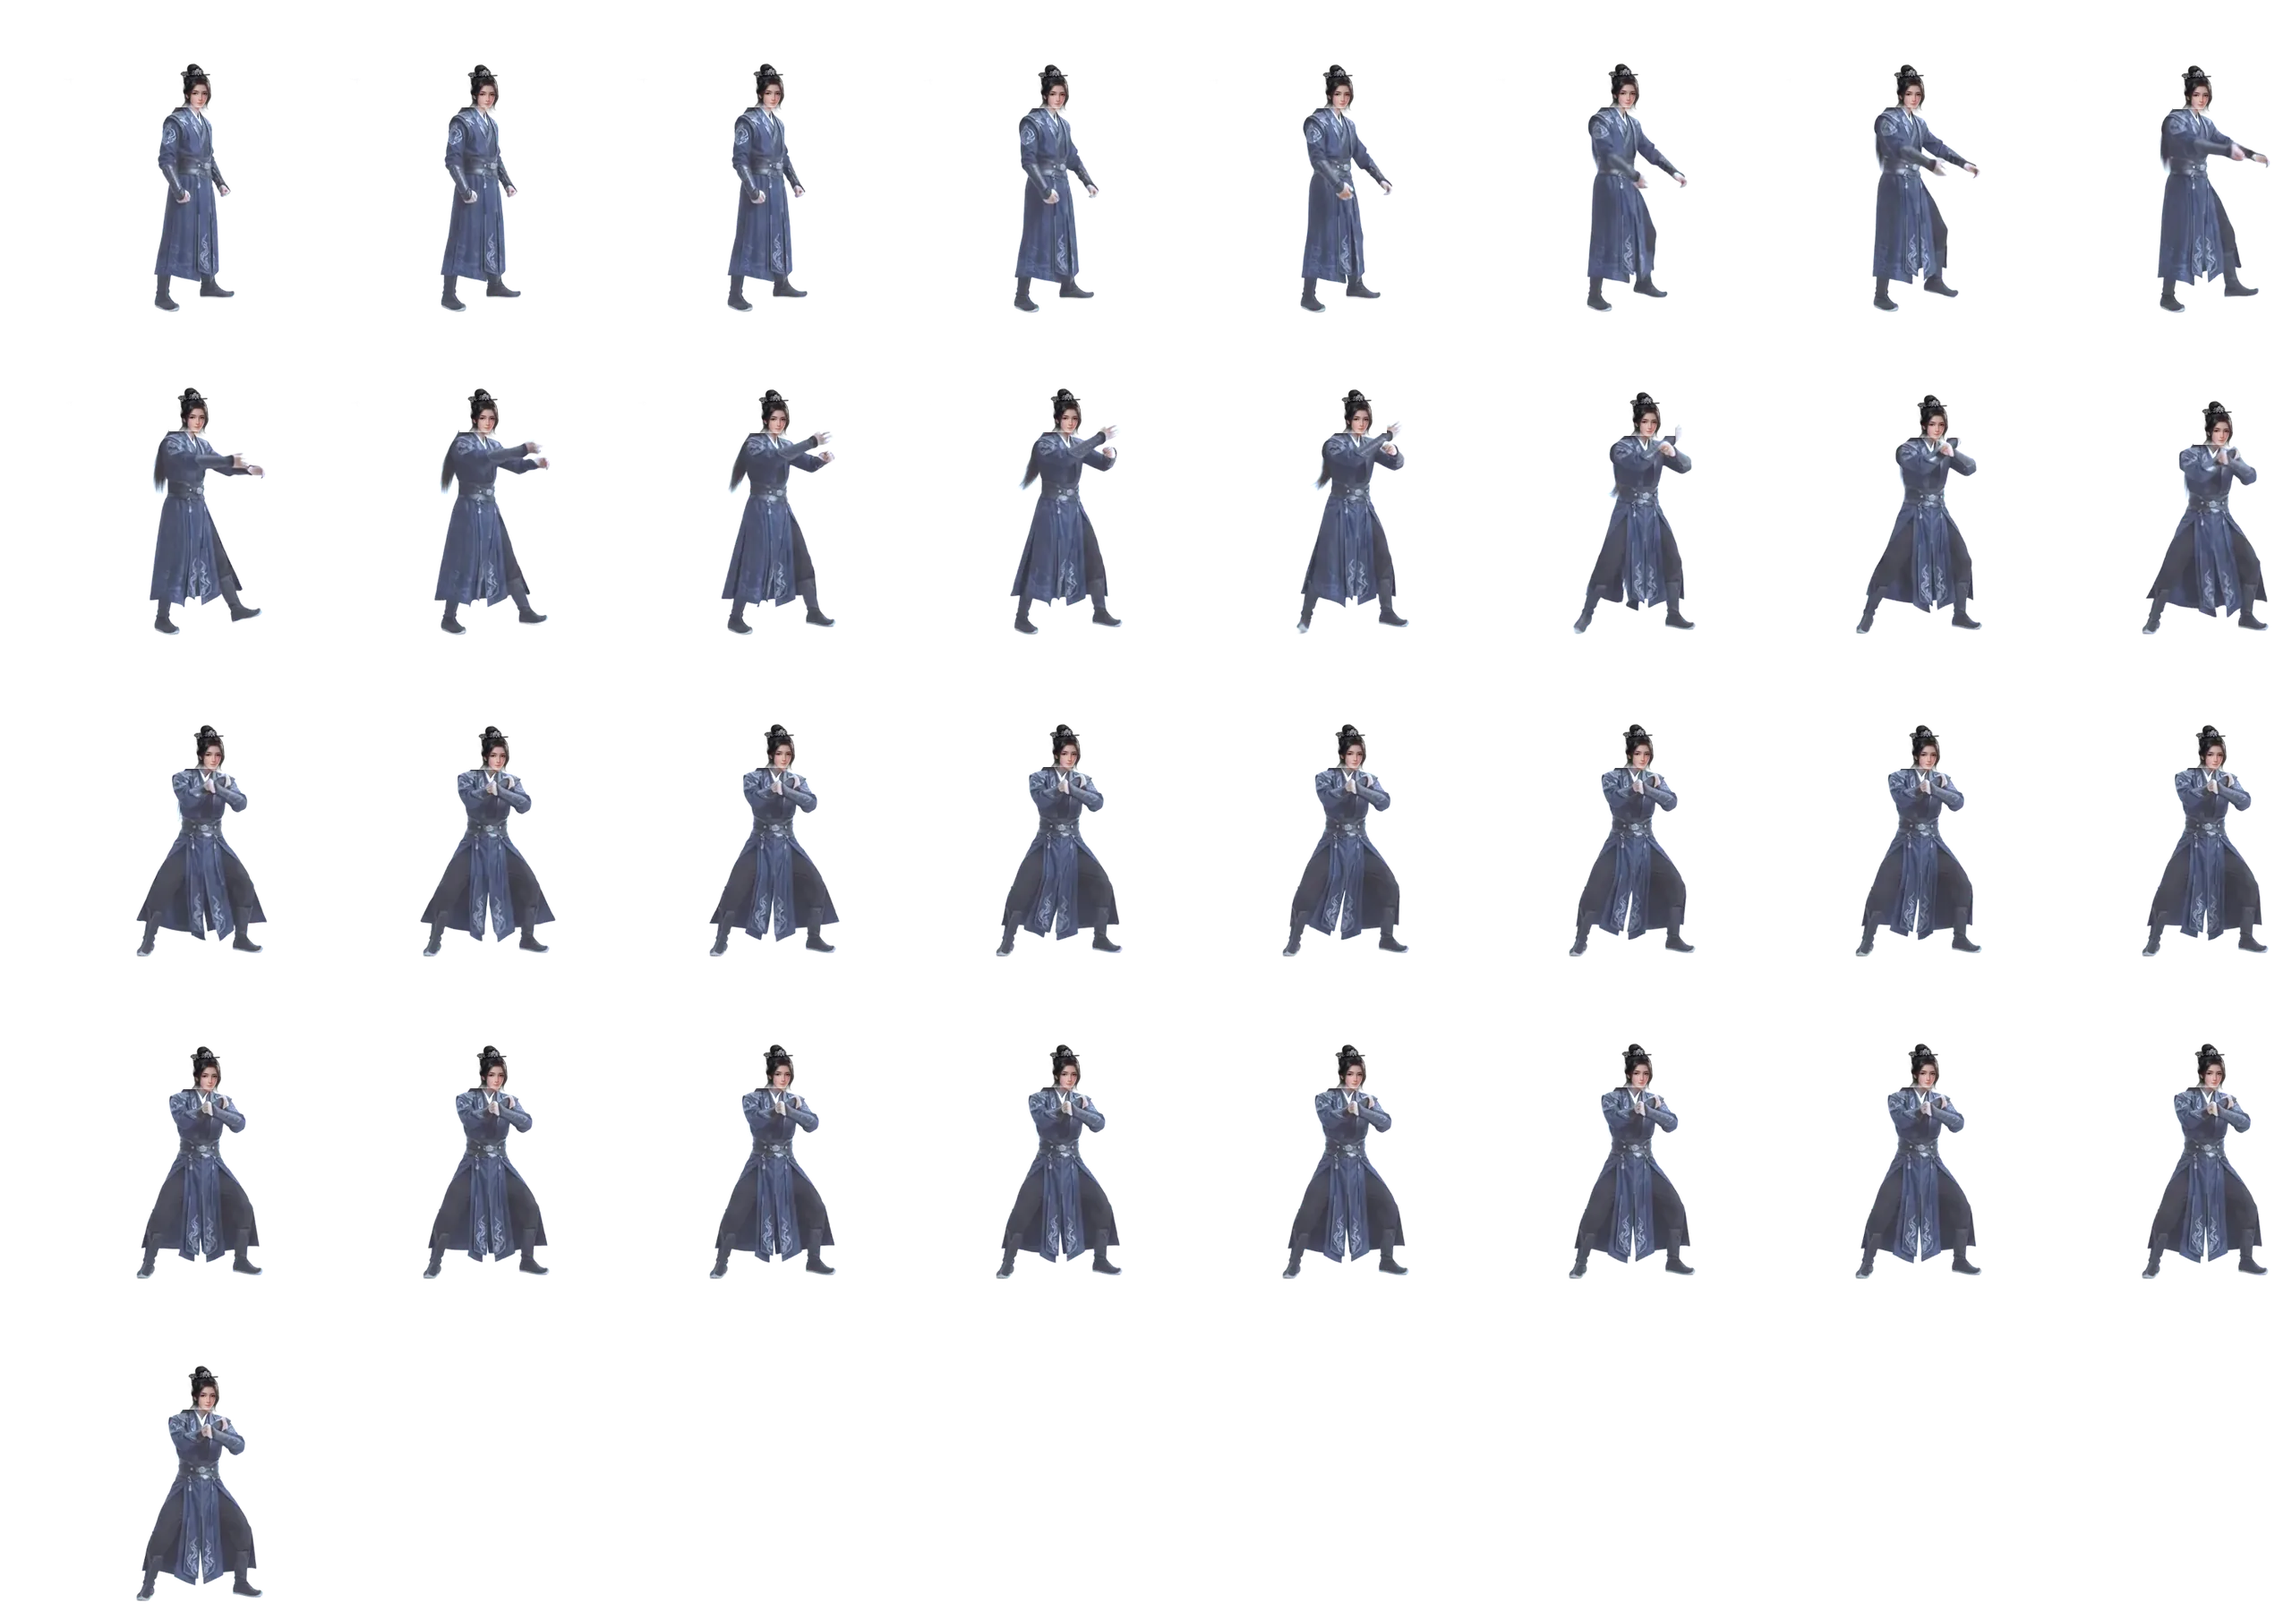
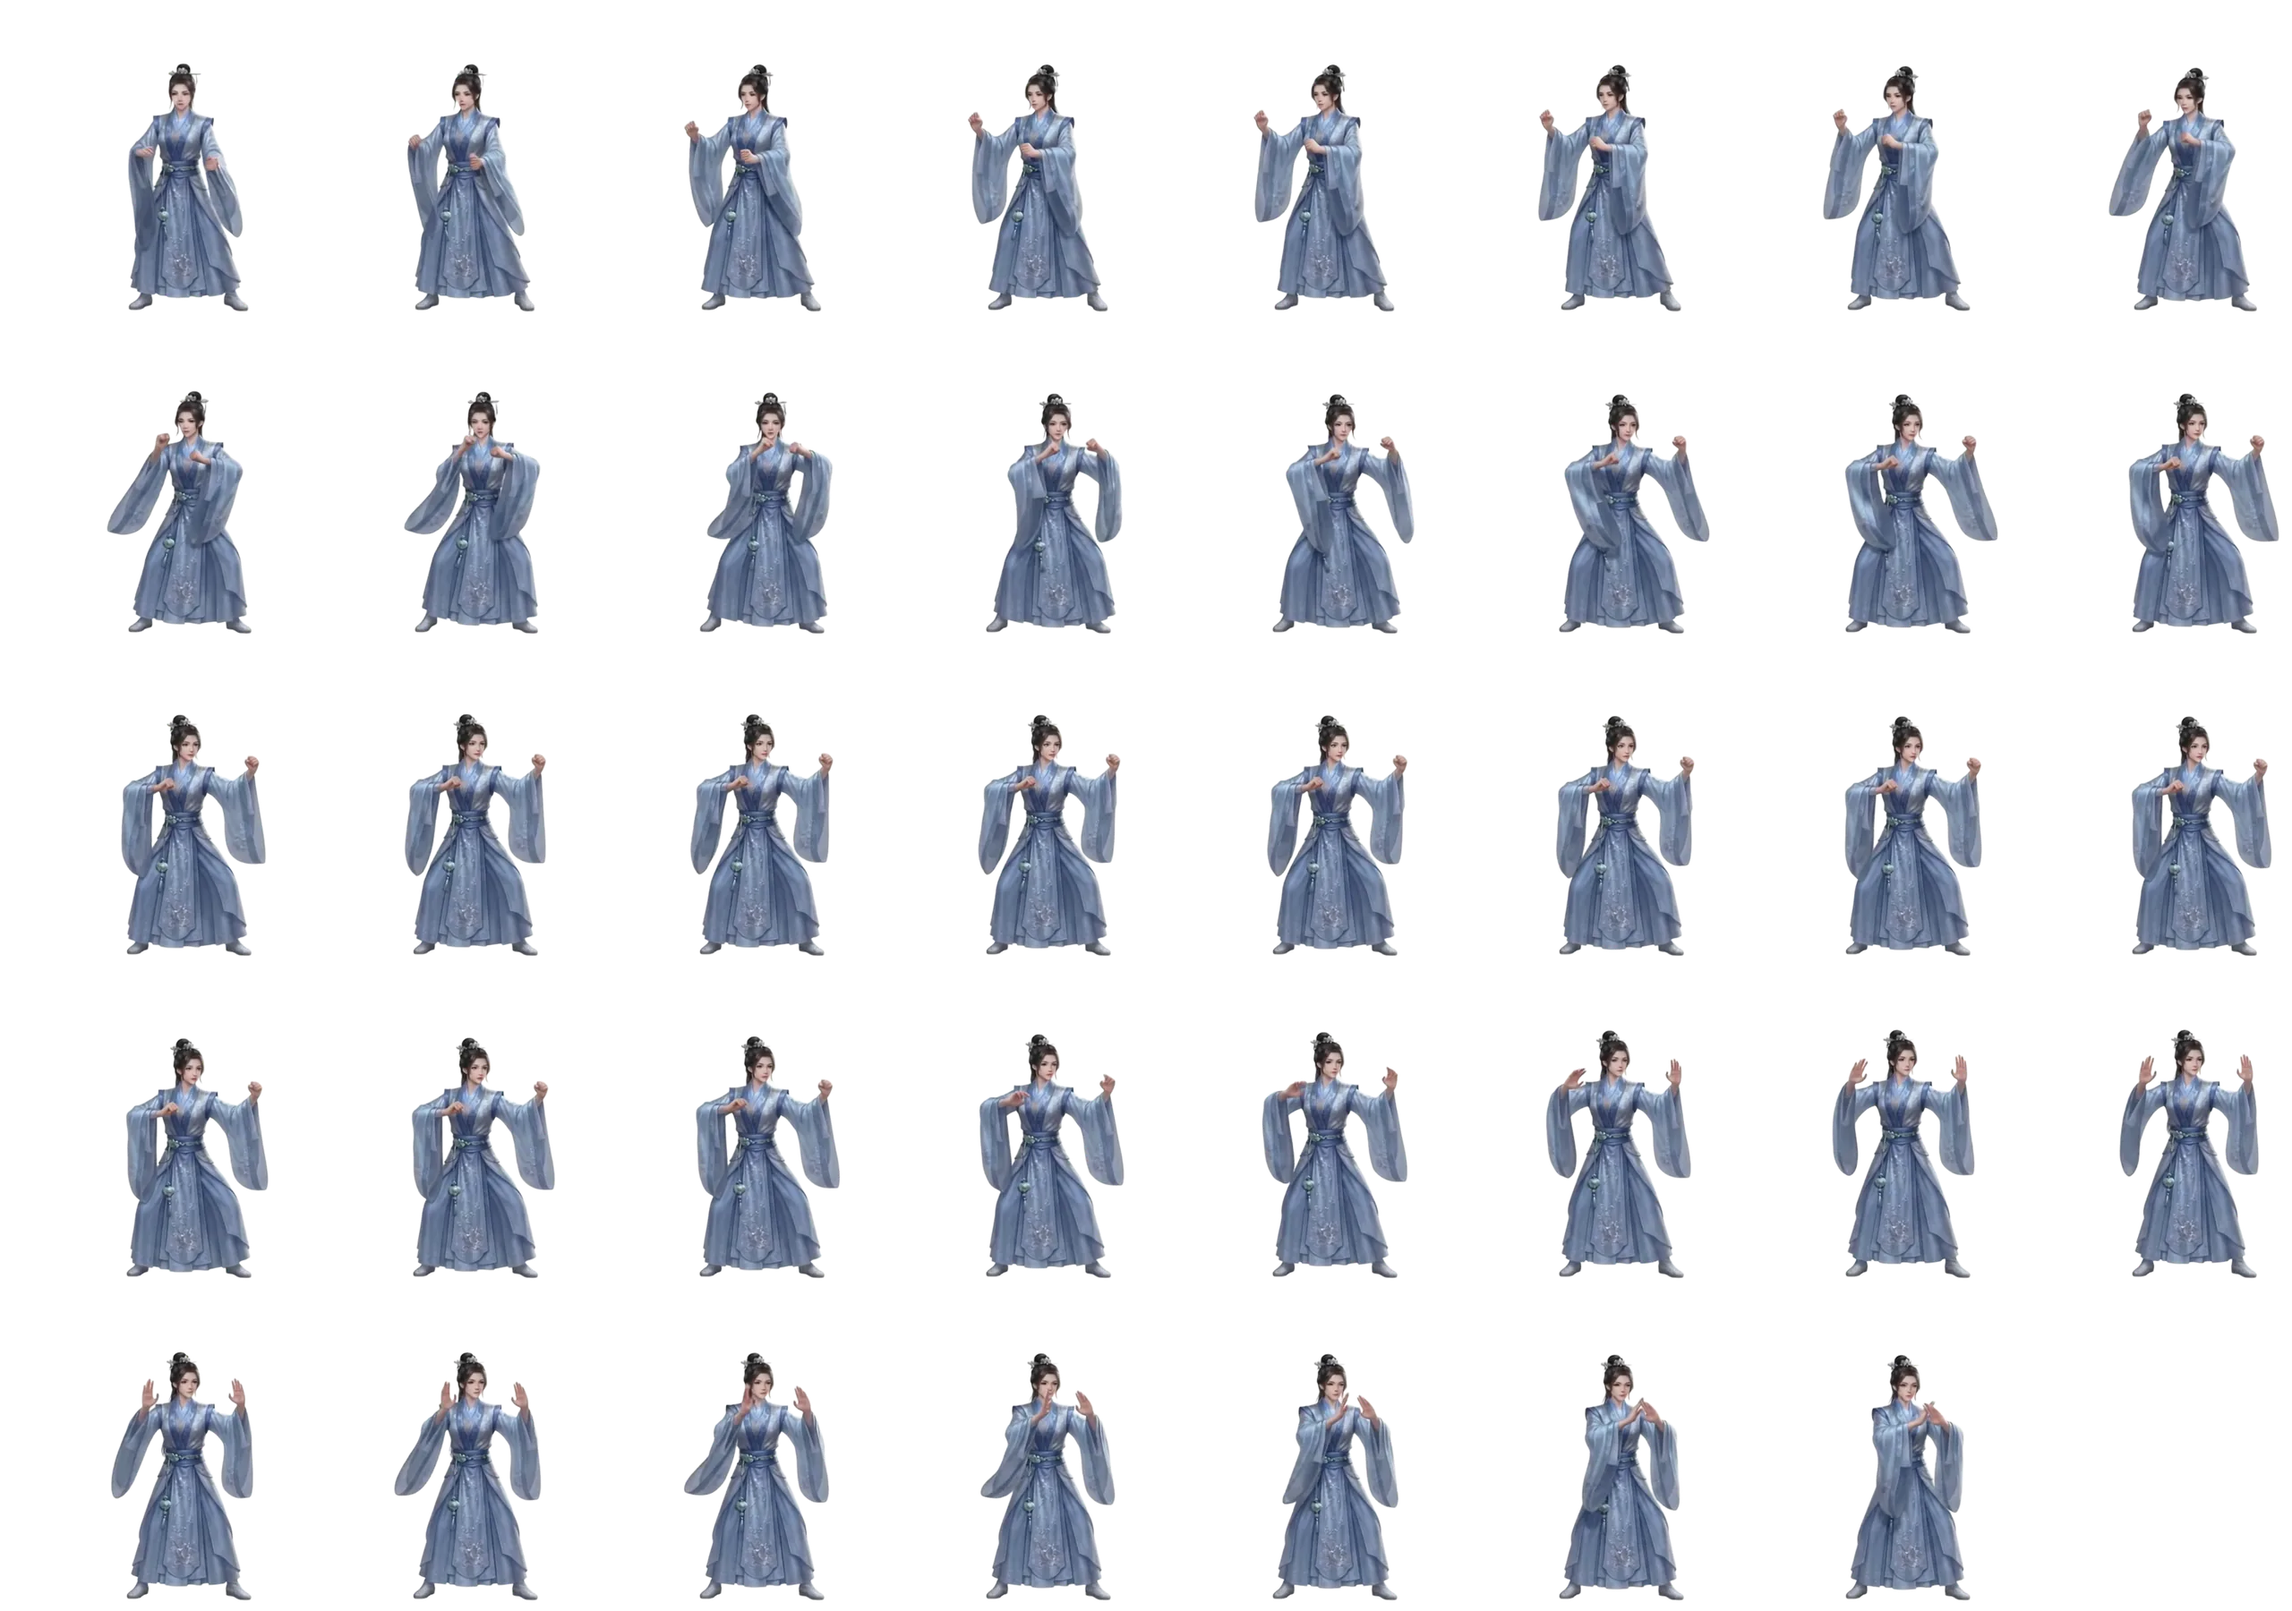
Female cultivator's own brace, from her video
hero_female_brace.webp is now made from SHOAIB's video of her
(scripts/make_heroine_brace.py, the storyboard's top-right panel): standing,
hands rising into guard, settled in a wide stance with both palms up, in her
own robes and sleeves. Her braced figure (`body`) and hand are measured from it,
so every brace effect sits around her. make_heroine_moves.py now builds only
her palm and finger jab from his frames.

Claude-Session: https://claude.ai/code/session_018PQaDJELw5twVwQ56j5tKf

diff --git a/looks.py b/looks.py
@@ -75,7 +75,8 @@ GUARD_SHEETS = {"male": {"src": "/art/portraits/fight/hero_male_guard.webp", "fr
 # "palm": SHOAIB's palm video (scripts/make_hero_palm.py): on guard (0-4), both arms drawn back (5-9), a lunging
 # two-handed palm push (out at `release`), held, then rising back to guard (`back` on).
 # `hand`: where the fist or palms are at the release, as shares of the fighter's box (effects fly from there).
-# The female cultivator's punch is her own (scripts/make_heroine_fist.py); her other movements are his frames in her
+# The female cultivator's punch and brace are her own (make_heroine_fist.py, make_heroine_brace.py); her palm and
+# finger jab are his frames in her
 # colours, at her height, with her own head and hair (scripts/make_heroine_moves.py), so their timing marks are his.
 MOTION_SHEETS = {"fist": {"male": {"src": "/art/portraits/fight/hero_male_fist.webp", "frames": 36, "cols": 8, "rows": 5,
                                    "jab": 5, "release": 12, "back": 21, "shift": 18 / 320, "hand": [0.685, 0.287]},
@@ -101,9 +102,11 @@ MOTION_SHEETS = {"fist": {"male": {"src": "/art/portraits/fight/hero_male_fist.w
                  "brace": {"male": {"src": "/art/portraits/fight/hero_male_brace.webp", "frames": 33, "cols": 8, "rows": 5,
                                     "jab": 5, "release": 16, "back": 32, "shift": 0, "hand": [0.49, 0.29],
                                     "body": [0.462, 0.094, 0.902, 0.239]},
-                           "female": {"src": "/art/portraits/fight/hero_female_brace.webp", "frames": 33, "cols": 8, "rows": 5,
-                                      "jab": 5, "release": 16, "back": 32, "shift": 0, "hand": [0.55, 0.42],
-                                      "body": [0.53, 0.247, 0.939, 0.205]}}}
+                           # hers is her own, from SHOAIB's video of her (scripts/make_heroine_brace.py): standing,
+                           # hands rising into guard, settled in a wide stance at `release`, both palms up
+                           "female": {"src": "/art/portraits/fight/hero_female_brace.webp", "frames": 39, "cols": 8, "rows": 5,
+                                      "jab": 5, "release": 16, "back": 38, "shift": 7 / 320, "hand": [0.6, 0.39],
+                                      "body": [0.523, 0.209, 0.937, 0.232]}}}
 
 
 def fighter(look, pose="idle"):

diff --git a/scripts/make_heroine_brace.py b/scripts/make_heroine_brace.py
@@ -1,0 +1,49 @@
+"""Build the female cultivator's own brace from SHOAIB's video of her (web/static/fight.js `braced`, docs/web.md
+"Techniques"), in place of the one made from the male's frames: her own body, robes and sleeves throughout. Same use
+as his (looks.MOTION_SHEETS "brace"): the effects are placed around her braced figure (`body`).
+
+The video (Gemini, 1280 x 720, 24 fps) is a storyboard of six panels, 3 x 2, each about 427 x 360, on white. The
+top-right panel (x 853-1280, y 0-360) stands, raises her hands into guard and sinks into a wide stance, both palms
+up, settled by about 5.2 s and held to the end. Its corners are whited out (panel numbers).
+
+    python -m scripts.make_heroine_brace path/to/her_brace.mp4
+
+Writes art/portraits/fight/hero_female_brace.webp: 38 frames of 320 x 360 in an 8-wide grid, and prints her braced
+figure's box at the last frame, for looks.MOTION_SHEETS.
+Needs ffmpeg, numpy, Pillow and rembg, as make_hero_attack does.
+"""
+import os
+import sys
+import tempfile
+
+import numpy as np
+from PIL import Image
+
+from scripts.make_hero_attack import COLS, OUT, cut, frames, grid
+from scripts.make_hero_fist import bbox, place
+from scripts.make_heroine_moves import in_cells
+
+CELL = (427, 360, 853, 0)          # w, h, x, y of her bracing panel in the video
+LABELS = ((0, 0, 36, 30), (390, 325, 427, 360))   # painted panel numbers, top-left and bottom-right
+START, LENGTH, STEP = 0.4, 6.4, 4  # every 4th video frame: 38 frames
+
+
+def main(video):
+    with tempfile.TemporaryDirectory() as tmp:
+        clip = frames(video, tmp, cell=CELL, start=START, length=LENGTH, numbers=range(1, int(LENGTH * 24) + 1, STEP))
+    for im in clip:
+        for box in LABELS:
+            im.paste((246, 247, 248), box)
+    ref = in_cells(os.path.join(OUT, "hero_female_idle.webp"))
+    images, scale, shift = place(cut(clip), ref)
+    a = np.asarray(images[-1].getchannel("A"))
+    ys, xs = np.where(a > 128)
+    rows = grid(images, "hero_female_brace.webp")
+    print(f"hero_female_brace.webp: {len(images)} frames, {COLS} x {rows}, scale {scale:.2f}, moved left {shift} px, "
+          f"braced box x {xs.min()}-{xs.max()} y {ys.min()}-{ys.max()}")
+
+
+if __name__ == "__main__":
+    if len(sys.argv) != 2:
+        sys.exit(__doc__)
+    main(sys.argv[1])

diff --git a/scripts/make_heroine_moves.py b/scripts/make_heroine_moves.py
@@ -8,7 +8,7 @@ her face and hair.
 
     python -m scripts.make_heroine_moves
 
-Writes art/portraits/fight/hero_female_{palm,finger,brace}.webp in the same 320 x 360 cells as his, and prints where her
+Writes art/portraits/fight/hero_female_{palm,finger}.webp in the same 320 x 360 cells as his, and prints where her
 hand is at the release, for looks.MOTION_SHEETS.
 """
 import os
@@ -121,7 +121,7 @@ def main():
     male = in_cells(os.path.join(OUT, "hero_male_idle.webp"))
     mbox = male.getchannel("A").point(lambda v: 255 if v > 128 else 0).getbbox()
     s = (hbox[3] - hbox[1]) / (mbox[3] - mbox[1])                    # her height against his
-    for motion, n in (("palm", 48), ("finger", 48), ("brace", 33)):   # her punch is her own: make_heroine_fist.py
+    for motion, n in (("palm", 48), ("finger", 48)):   # her punch and brace are her own: make_heroine_{fist,brace}.py
         images, shift = build(motion, n, her, patch, her_face, hbox, s)
         rows = -(-len(images) // COLS)
         sheet = Image.new("RGBA", (CELL[0] * COLS, CELL[1] * rows), (0, 0, 0, 0))

diff --git a/tests/test_technique_fx.py b/tests/test_technique_fx.py
@@ -92,8 +92,8 @@ def test_the_movement_frames_exist_for_both_cultivators():
             assert 0 < sheet["jab"] <= sheet["release"] < sheet["back"] < sheet["frames"]
             assert all(0 < q < 1 for q in sheet["hand"])
         him, her = (looks.motion_sheet({"gender": g}, motion) for g in ("male", "female"))
-        if motion != "fist":                              # made from his frames: the same movement, frame for frame
-            assert all(him[k] == her[k] for k in ("frames", "jab", "release", "back"))   # (her punch is her own video)
+        if motion in ("palm", "finger"):                  # made from his frames: the same movement, frame for frame
+            assert all(him[k] == her[k] for k in ("frames", "jab", "release", "back"))   # (her punch and brace are her own)
 
 
 def test_a_technique_event_carries_its_damage():

diff --git a/docs/web.md b/docs/web.md
@@ -269,8 +269,8 @@ a lair is fought with `bot/hunt.py`.
    Yellow, Qi rings at the feet from Mystic, a pillar of Qi and a dimmed scene from Earth, a dark Heaven sky. Heavy
    hits leave the golden crater, Stagger the dizzy ring, Pierce a line of light through the beast. The pictures
    are sized by the beast's box, so they keep their proportions on phones. The damage comes from the server (the
-   `tech` event's `dmg`) and the HP bar drops when the blow lands. The female cultivator's punch is her own, from SHOAIB's video of her (`hero_female_fist.webp`,
-   `scripts/make_heroine_fist.py`). Her palm push, finger jab and brace are his frames in her colours, at her
+   `tech` event's `dmg`) and the HP bar drops when the blow lands. The female cultivator's punch and brace are her own, from SHOAIB's videos of her (`hero_female_fist.webp`,
+   `hero_female_brace.webp`, `scripts/make_heroine_fist.py`, `scripts/make_heroine_brace.py`). Her palm push and finger jab are his frames in her colours, at her
    height, with her own head and hair on every frame (`scripts/make_heroine_moves.py`). A look with no frames for a movement (both, for the kick so far) plays the
    same pictures through its own three poses. The
    action buttons stay locked until the whole cast has played, so extra clicks never cut it short.
